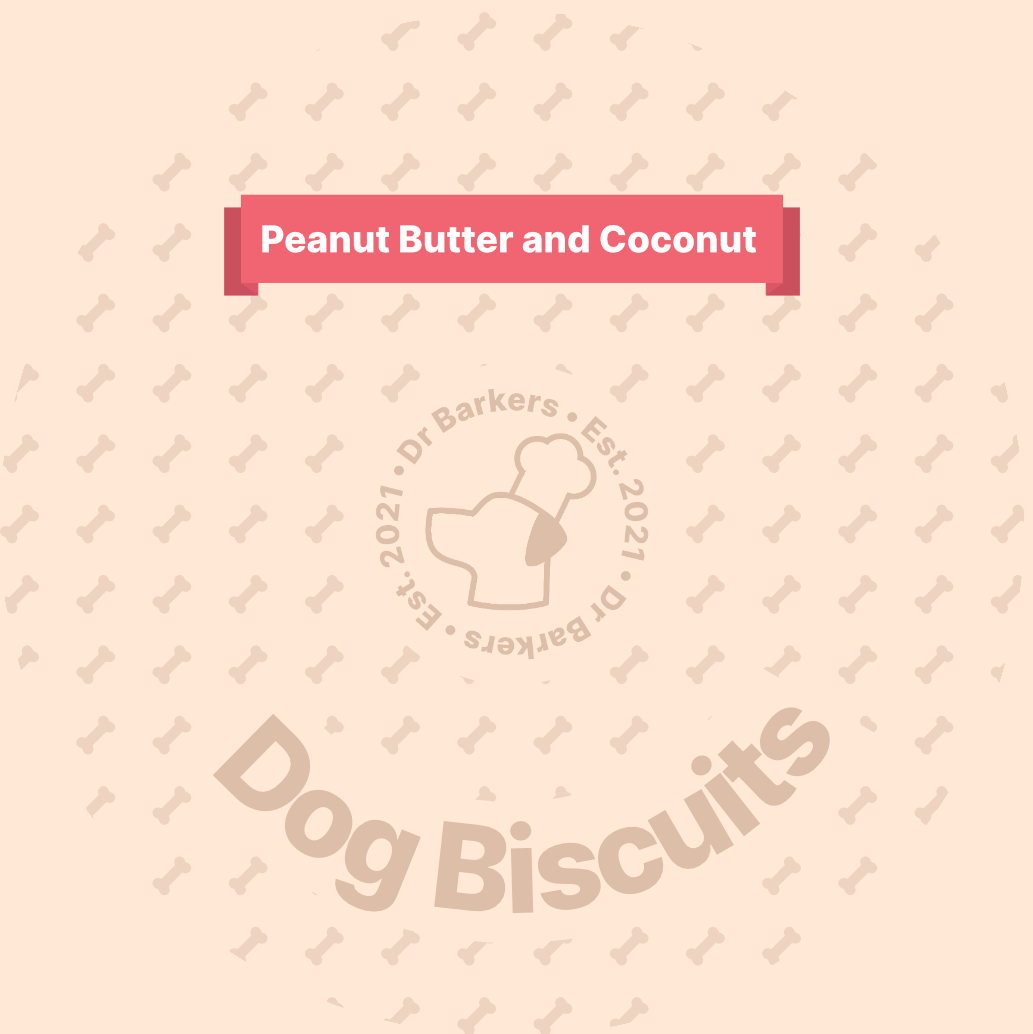
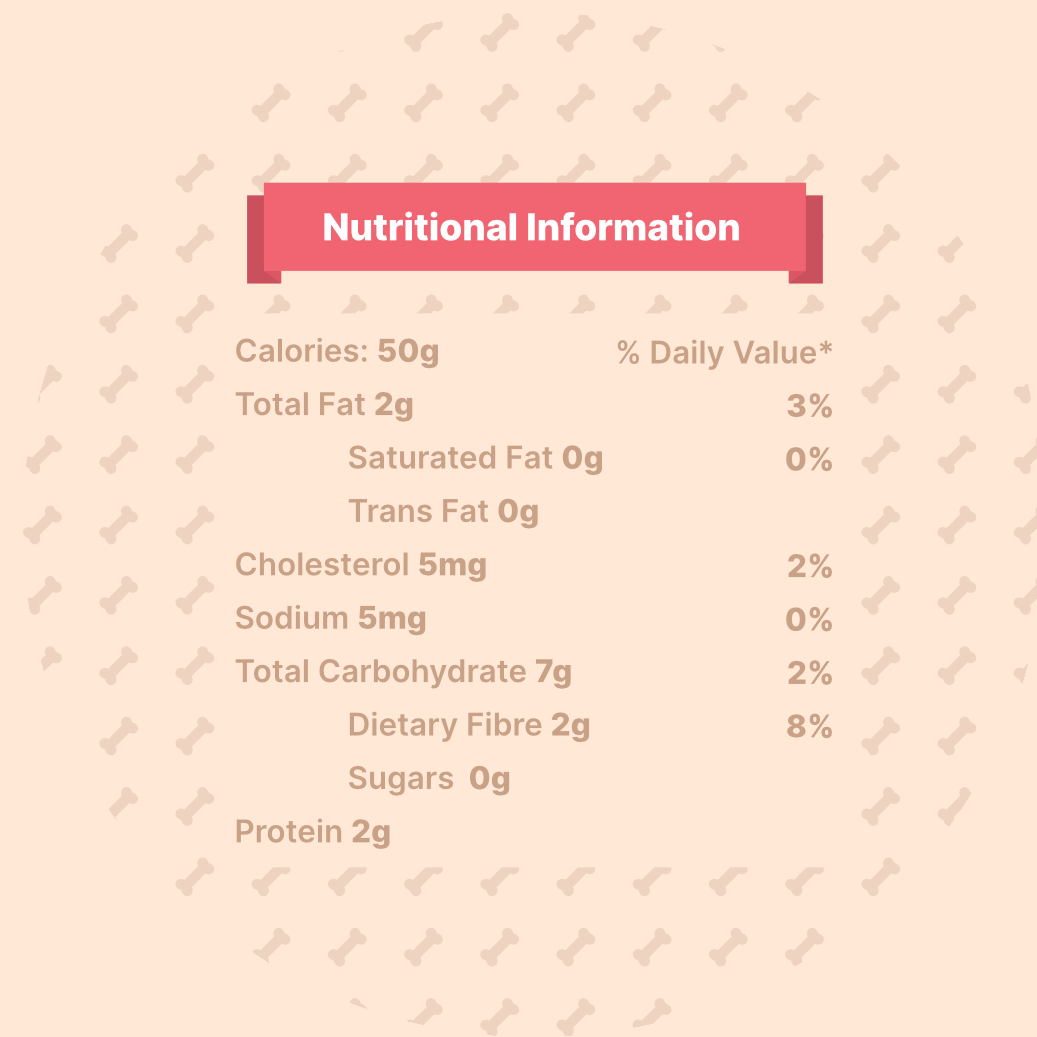
Finished Biscuit Box section

Changed region(s): [[0.1859, 0.1547, 0.8054, 0.8975], [0.7435, 0.5261, 0.8054, 0.5571], [0.7435, 0.4333, 0.8054, 0.4642]]

diff --git a/src/pages/DrBarkers.js b/src/pages/DrBarkers.js
@@ -460,14 +460,21 @@ const DrBarkers = (props) => {
                     <p>For the second iteration, i experimented with including the banners as seen in <a href='#box--the-box'>My Box</a> and <a href='#infographics--infographics-digital-response'>Infographics</a>. However I didn't particularly like this, as it made it very boring, and far too similar to the other products I had already made.</p>
                     <p>As well as this, the banners were too small, making it hard to read, but also resulting in a lot of whitespace around the main content. This felt very distracting to me, and resulted in a very plain and boring box. To help with this, I tried increasing the size of the logo and banners, but that didn't help at all, and instead made the packaging look clumsy, instead of the very professional and sleek look I wanted. </p>
 
-                    <Image className='left content-img' src='/assets/images/dr-barkers/biscuit-box/4.png' />
+                    <Image className='left content-img' src='/assets/images/dr-barkers/biscuit-box/3.png' />
 
                     <p>For this iteration, I decided to mix the two previous designs, to help create a coherent design. This is in part due to how the information is displayed to the customer. I made sure that the more important information (the flavour) was in the red banner, as it is incredibly bright and vibrant, attracting the eye immediately. This key, as most dog owners will decide on treats that they find interesting and appetising for themselves.</p>
                     <p>I then included the secondary information (the actual product), in a more subtle colour, and in a way that takes advantage of the uniquely circular box. I then increased the text size, to increase legibility.</p>
 
-                    <Image className='left content-img' src='/assets/images/dr-barkers/biscuit-box/4.png' />
+                    <Image className='right content-img' src='/assets/images/dr-barkers/biscuit-box/4.png' />
 
+                    <p>I then added some nutritional information on the back of the box. I used a table system similar to that used in my Infographics. I then added a solid background, and increased text contrast to help with legibility. I also added a banner to display the title, to make it eye catching, as it is very important to make the owner aware of this information.</p>
+                    <p>I then added a thin, matching red strip along the side of the container, to help breakup the otherwise boring sides. When I create the actual designs, however, I will replace this with a red ribbon, to further emphasise the premium products that the company sells.</p>
+                    <br />
+                    <p>I finally made some final renders to advertise the product:</p>
 
+                    <Image className='divider-img' src='/assets/images/dr-barkers/biscuit-box/final.png' />
+                    <Image className='divider-img' src='/assets/images/dr-barkers/biscuit-box/final top.png' />
+                    <Image className='divider-img' src='/assets/images/dr-barkers/biscuit-box/final bottom.png' />
 
 
                 </Section>
